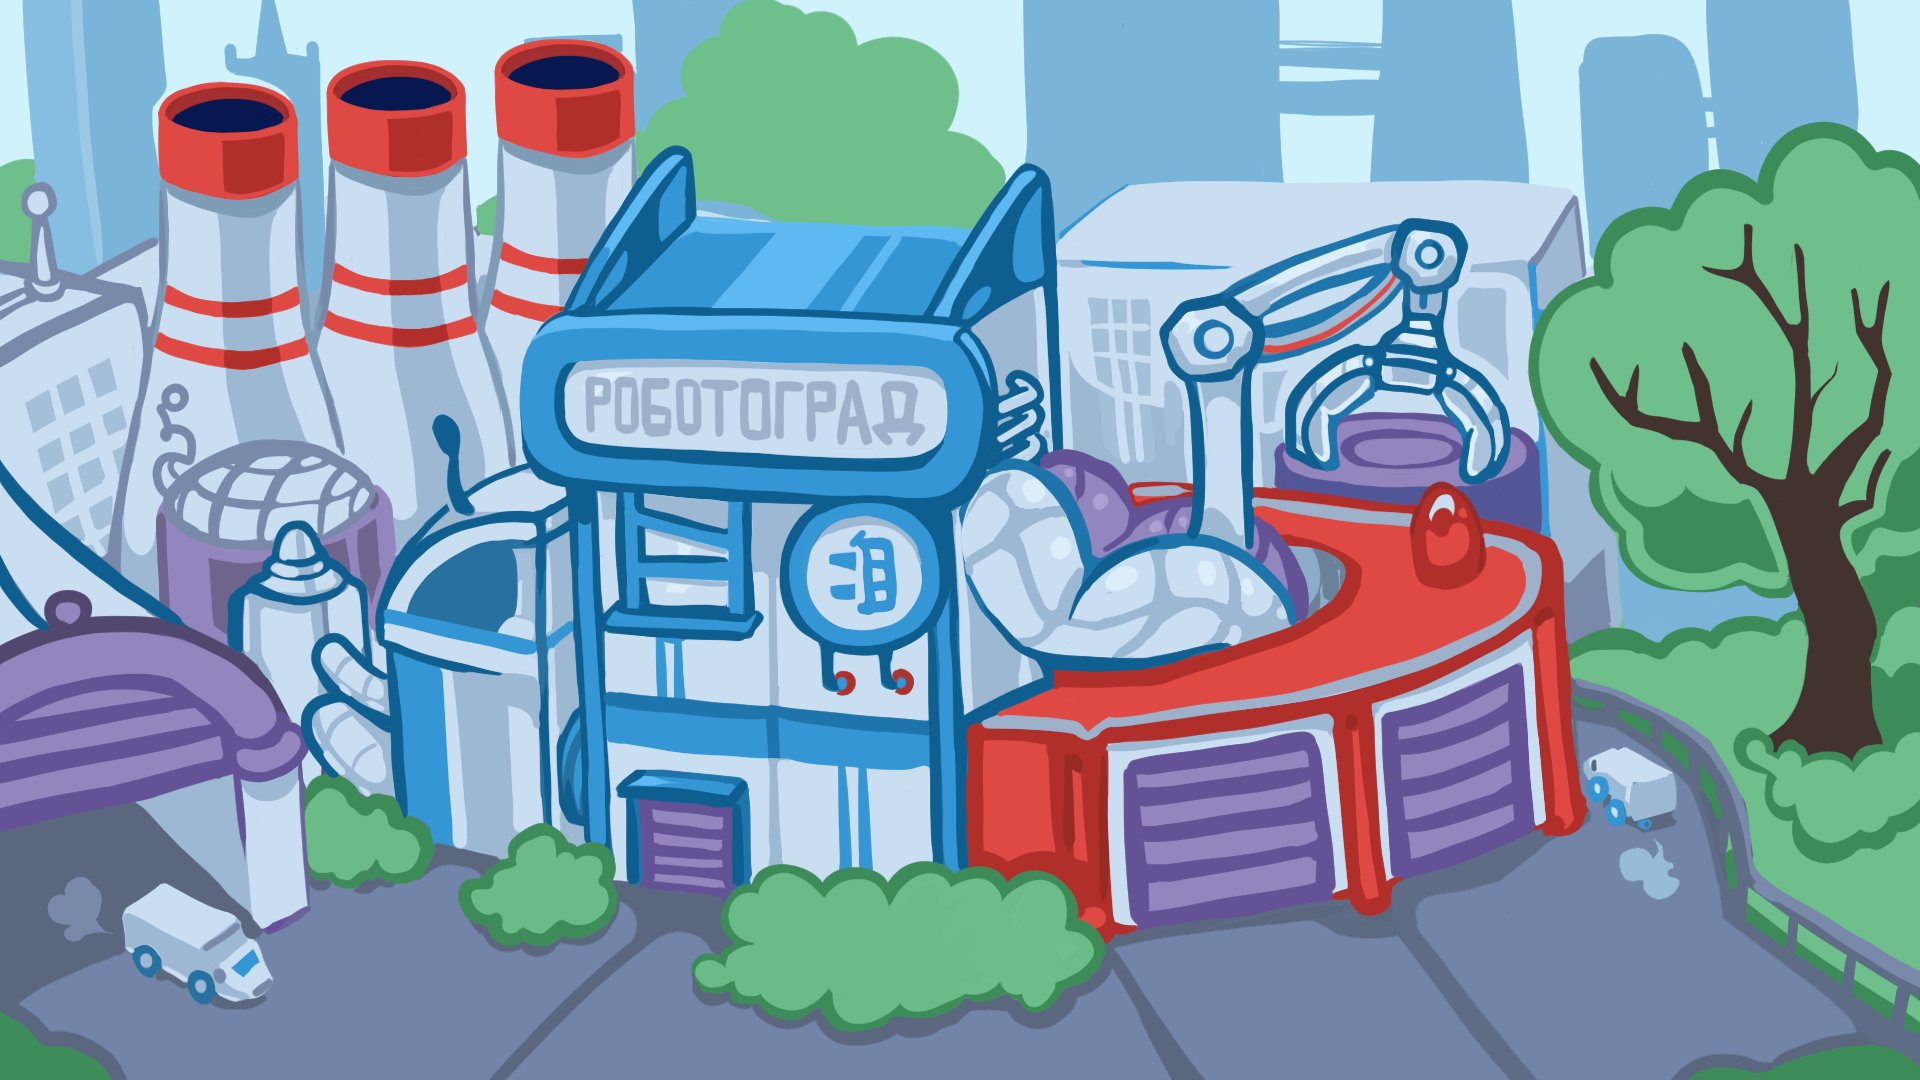
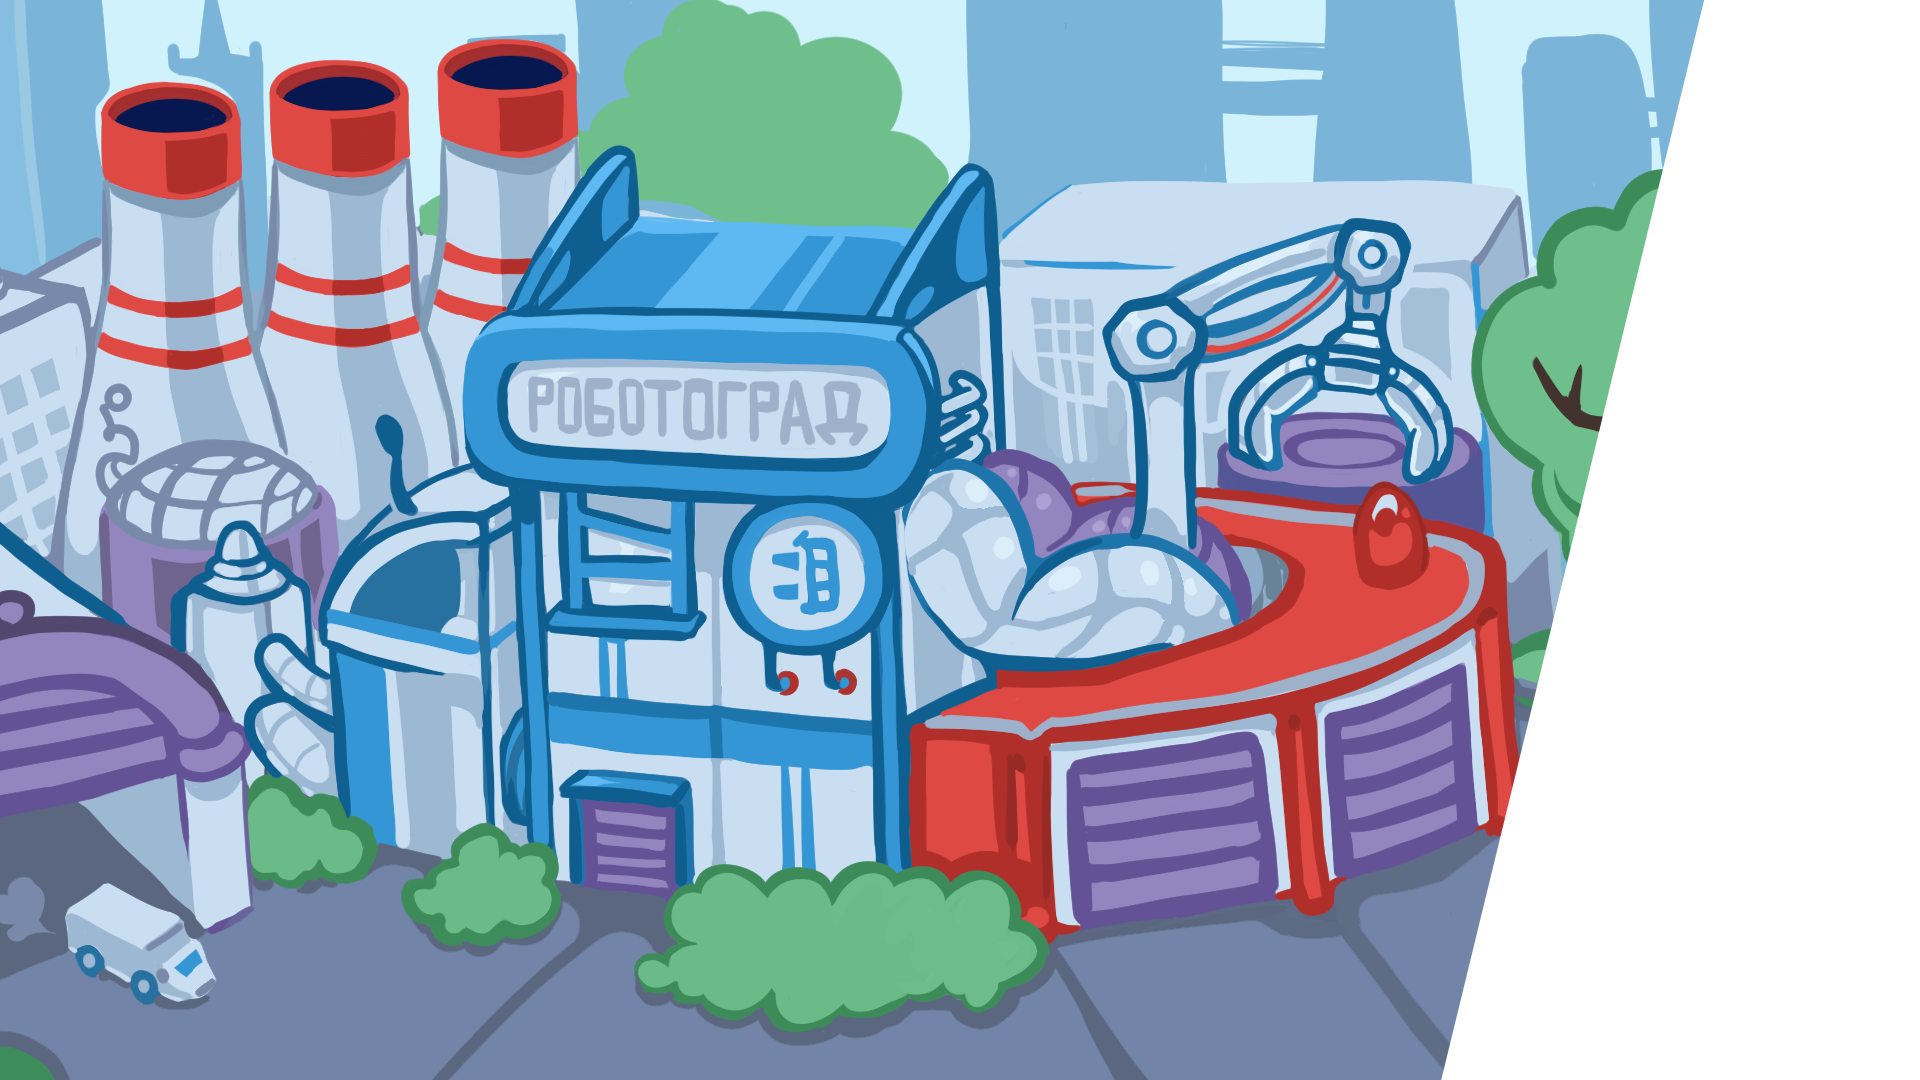
add fullscreen and music.

diff --git a/src/pages/comic.vue b/src/pages/comic.vue
@@ -56,16 +56,17 @@ export default {
       <div v-if="currentFrame >= 4" class="comic-frame bottom-right">
         <img :src="frames[3]" class="com" />
       </div>
-
-      <div class="progress-indicator">
-        Прогресс: {{ currentFrame }} / 4
-      </div>
     </div>
   </div>
 </template>
 
 <style scoped>
 .divcom {
+  user-select: none;
+  -webkit-user-select: none;
+  -ms-user-select: none;
+  user-drag: none;
+  -webkit-user-drag: none;
   background-color: #000;
   width: 100vw;
   height: 100vh;
@@ -76,24 +77,23 @@ export default {
   display: grid;
   grid-template-columns: 1fr 1fr;
   grid-template-rows: 1fr 1fr;
-  gap: 10px;
   width: 90vw;
   max-width: 1500px;
-  height: 90vh;
+  height: 100vh;
   margin: 0 auto;
-  padding: 20px;
   position: relative;
   cursor: pointer;
 }
-
 .comic-frame {
+  pointer-events: none;
   display: flex;
   align-items: center;
   justify-content: center;
-  border: 2px solid #333;
-  background-color: #7e7e7e;
   animation: fadeIn 0.4s ease-in-out;
   overflow: hidden;
+
+  margin-left: -152px;
+  margin-right: -152px;
 }
 
 .com {

diff --git a/src/pages/Q3.vue b/src/pages/Q3.vue
@@ -205,6 +205,11 @@ body, html {
 }
 
 .game {
+  user-select: none;
+  -webkit-user-select: none;
+  -ms-user-select: none;
+  user-drag: none;
+  -webkit-user-drag: none;
   min-height: 100vh;
   width: 100vw;
   background: url('../assets/fonroad.png') center center no-repeat;

diff --git a/src/pages/Home.vue b/src/pages/Home.vue
@@ -60,6 +60,11 @@ export default {
 }
 
 .container {
+  user-select: none;
+  -webkit-user-select: none;
+  -ms-user-select: none;
+  user-drag: none;
+  -webkit-user-drag: none;
   width: 100vw;
   height: 100vh;
   background-image: url('../../public/startimage.png');

diff --git a/src/pages/P1.vue b/src/pages/P1.vue
@@ -28,6 +28,11 @@ export default {
 <style scoped>
 
 .div1 {
+  user-select: none;
+  -webkit-user-select: none;
+  -ms-user-select: none;
+  user-drag: none;
+  -webkit-user-drag: none;
   width: 100vw;
   height: 100vh;
   display: flex;

diff --git a/src/pages/P2.vue b/src/pages/P2.vue
@@ -28,6 +28,11 @@ export default {
 <style scoped>
 
 .div1 {
+  user-select: none;
+  -webkit-user-select: none;
+  -ms-user-select: none;
+  user-drag: none;
+  -webkit-user-drag: none;
   width: 100vw;
   height: 100vh;
   display: flex;

diff --git a/src/pages/P3.vue b/src/pages/P3.vue
@@ -28,6 +28,11 @@ export default {
 <style scoped>
 
 .div1 {
+  user-select: none;
+  -webkit-user-select: none;
+  -ms-user-select: none;
+  user-drag: none;
+  -webkit-user-drag: none;
   width: 100vw;
   height: 100vh;
   display: flex;

diff --git a/src/pages/P4.vue b/src/pages/P4.vue
@@ -28,6 +28,11 @@ export default {
 <style scoped>
 
 .div1 {
+  user-select: none;
+  -webkit-user-select: none;
+  -ms-user-select: none;
+  user-drag: none;
+  -webkit-user-drag: none;
   width: 100vw;
   height: 100vh;
   display: flex;

diff --git a/src/pages/Q2.vue b/src/pages/Q2.vue
@@ -184,6 +184,11 @@ export default {
 }
 
 .div1 {
+  user-select: none;
+  -webkit-user-select: none;
+  -ms-user-select: none;
+  user-drag: none;
+  -webkit-user-drag: none;
   width: 100vw;
   height: 100vh;
   display: flex;

diff --git a/src/pages/Zavod.vue b/src/pages/Zavod.vue
@@ -180,6 +180,11 @@ export default {
 }
 
 .div1 {
+  user-select: none;
+  -webkit-user-select: none;
+  -ms-user-select: none;
+  user-drag: none;
+  -webkit-user-drag: none;
   width: 100vw;
   height: 100vh;
   display: flex;

diff --git a/src/pages/garage.vue b/src/pages/garage.vue
@@ -172,6 +172,11 @@ export default {
 }
 
 .div1 {
+  user-select: none;
+  -webkit-user-select: none;
+  -ms-user-select: none;
+  user-drag: none;
+  -webkit-user-drag: none;
   width: 100vw;
   height: 100vh;
   display: flex;

diff --git a/src/pages/FINAL.vue b/src/pages/FINAL.vue
@@ -58,6 +58,12 @@ export default {
   width: 35vh;
 }
 .div1 {
+  user-select: none;
+  -webkit-user-select: none;
+  -ms-user-select: none;
+  user-drag: none;
+  -webkit-user-drag: none;
+
   width: 100vw;
   height: 100vh;
 

diff --git a/src/pages/Q1.vue b/src/pages/Q1.vue
@@ -34,6 +34,12 @@ export default {
 <style scoped>
 
 .div1 {
+  user-select: none;
+  -webkit-user-select: none;
+  -ms-user-select: none;
+  user-drag: none;
+  -webkit-user-drag: none;
+
   width: 100vw;
   height: 100vh;
 
